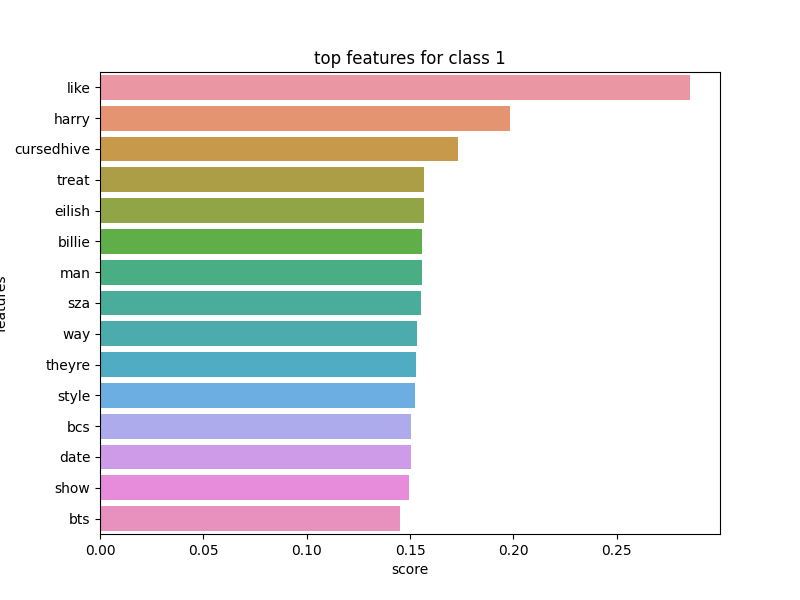
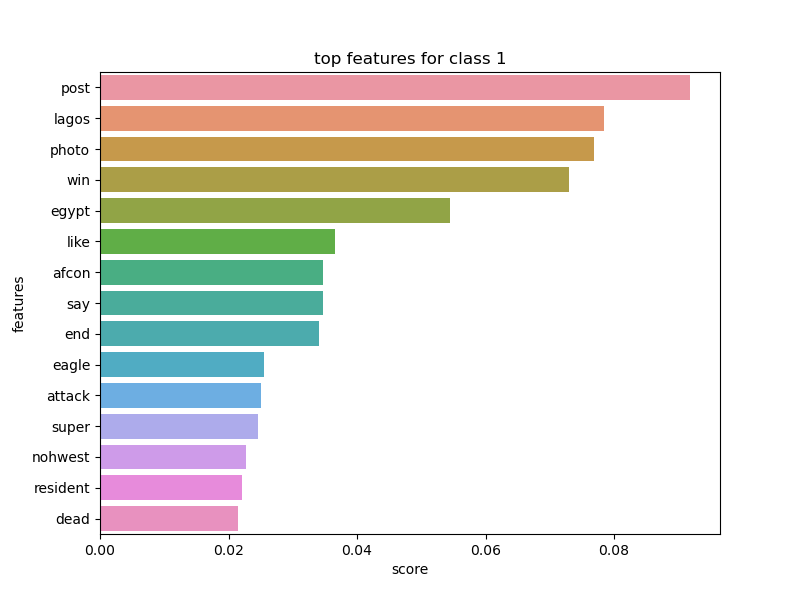
added SVM + changed topic + update ReadMe

diff --git a/src/tweets_classification.py b/src/tweets_classification.py
@@ -5,6 +5,7 @@ import json
 import re
 import string
 import pyodbc
+from sklearn.utils import shuffle
 import tweepy
 import nltk
 from nltk.corpus import stopwords
@@ -18,9 +19,12 @@ from sklearn.feature_extraction.text import TfidfVectorizer
 from sklearn.cluster import KMeans
 from sklearn.decomposition import PCA
 from sklearn.preprocessing import normalize
+from sklearn.model_selection import train_test_split
+from sklearn import datasets, svm
+from sklearn.metrics import accuracy_score, precision_score, recall_score
 from wordcloud import WordCloud
 
-brands = ["grammys"]
+brands = ["nigeria"]
 stop_words = stopwords.words("english") + brands
 lemmatizer = WordNetLemmatizer()
 vectorizer = TfidfVectorizer()
@@ -29,8 +33,8 @@ vectorizer = TfidfVectorizer()
 def set_up(conf):
     """setting up the application : connection to the Twitter API and the local dataBase"""
     with open(conf) as set_up_file:
-        tokens = json.load(set_up_file)
 
+        tokens = json.load(set_up_file)
         consumer_key = tokens["Key"]
         consumer_secret = tokens["Secret"]
 
@@ -66,7 +70,7 @@ def plot_word_cloud(text, fichier):
     wc.generate(text)
     plt.imshow(wc, interpolation="bilinear")
     plt.axis("off")
-    plt.show()
+    # plt.show()
     plt.savefig(fichier)
 
 
@@ -114,16 +118,20 @@ def fetch_tweets(conf):
     cursor = db_connexion.cursor()
     for brand in brands:
         for tweet in tweepy.Cursor(
-            api.search_tweets, lang="en", q=brand, result_type="mixed"
+            api.search_tweets, lang="en", q=brand, result_type="recent"
         ).items(6000):
+            print(tweet.text)
+            label = input("Label : ")
             cursor.execute(
-                "INSERT INTO dbo.tweets values(?,?,?,?,?,?,?)",
+                "INSERT INTO dbo.tweets values(?,?,?,?,?,?,?,?,?)",
                 tweet.id_str,
                 tweet.created_at,
                 tweet.text,
                 int(tweet.retweet_count),
                 int(tweet.favorite_count),
                 brand,
+                int(label),
+                -1,
                 -1,
             )
             db_connexion.commit()
@@ -170,6 +178,32 @@ def train_word2vec(tweets_df):
     return features
 
 
+def classify_tweets_svm(tweets_df):
+    Train_X, Test_X, Train_Y, Test_Y = train_test_split(
+        tweets_df["content"], tweets_df["target_label"], test_size=0.3
+    )
+    SVM = svm.SVC(C=1.0, kernel="linear", degree=3, gamma="auto")
+
+    Tfidf_vect = TfidfVectorizer(max_features=5000)
+    Tfidf_vect.fit(tweets_df["content"])
+    Train_X_Tfidf = Tfidf_vect.transform(Train_X)
+    Test_X_Tfidf = Tfidf_vect.transform(Test_X)
+
+    SVM.fit(Train_X_Tfidf, Train_Y)  # predict the labels on validation dataset
+    predictions_SVM = SVM.predict(Test_X_Tfidf)  # Use accuracy_score function to get the accuracy
+
+    accuracy = accuracy_score(Test_Y, predictions_SVM)
+    precision = precision_score(Test_Y, predictions_SVM, average=None)
+    recall = recall_score(Test_Y, predictions_SVM, average=None)
+    sns.countplot(Test_Y)
+    plt.savefig("../plots/SVMdistributionTrue.png")
+    sns.countplot(predictions_SVM)
+    plt.savefig("../plots/SVMdistributionPred.png")
+    print("accuracy for SVM classifier : {}".format(accuracy))
+    print("precision for SVM classifier : {}".format(precision))
+    print("recall for SVM classifier : {}".format(recall))
+
+
 def classify_tweets_kmeans(features, tweets_df):
     """This method convert the twwets text into vectors and
     then classify them using K Means classifier"""
@@ -185,6 +219,10 @@ def classify_tweets_kmeans(features, tweets_df):
     fitted = kmeans_classifier.fit(features)
     prediction = kmeans_classifier.predict(features)
 
+    return (y_learn, fitted, prediction, tf_idf_array, tfidf_vect)
+
+
+def plot_kmean_results(tweets_df, y_learn, fitted, prediction, tf_idf_array, tfidf_vect):
     res = []
     for id, result in itertools.zip_longest(tweets_df["tweet_id"], fitted.labels_):
         res.append({"id": id, "label": result})
@@ -209,22 +247,20 @@ def classify_tweets_kmeans(features, tweets_df):
 def get_top_features_cluster(tf_idf_array, prediction, label, tfidf_vect, n_feats):
     """get top features per cluster"""
     id_temp = np.where(prediction == label)  # indices for each cluster
-    x_means = np.mean(
-        tf_idf_array[id_temp], axis=0
-    )  # returns average score across cluster
+    x_means = np.mean(tf_idf_array[id_temp], axis=0)  # returns average score across cluster
     sorted_means = np.argsort(x_means)[::-1][:n_feats]  # indices with top 20 scores
     features = tfidf_vect.get_feature_names_out()
     best_features = [(features[i], x_means[i]) for i in sorted_means]
     return pd.DataFrame(best_features, columns=["features", "score"])
 
 
-def store_results(result, conf):
+def store_results(result, conf, model):
     """store kmeans results in dataBase table"""
     (_, connexion) = set_up(conf)
     cursor = connexion.cursor()
     for _, row in result.iterrows():
         cursor.execute(
-            "UPDATE dbo.tweets SET kmeans_res = ? WHERE tweet_id = ?",
+            "UPDATE dbo.tweets SET " + model + " = ? WHERE tweet_id = ?",
             row["label"],
             row["id"],
         )
@@ -264,10 +300,17 @@ def main():
     # fetch_tweets("../twitter_token.json.txt")
     tweets_df = retrieve_tweets()
     data_frame = clean_df(tweets_df)
-    plot_word_cloud(str(data_frame["content"].values), "../plots/cloud.png")
+    # plot_word_cloud(str(data_frame["content"].values), "../plots/cloud.png")
     features = train_word2vec(data_frame)
-    results = classify_tweets_kmeans(features, data_frame)
-    store_results(results, "../twitter_token.json.txt")
+    (y_learn, fitted, prediction, tf_idf_array, tfidf_vect) = classify_tweets_kmeans(
+        features, data_frame
+    )
+    results_kmean = plot_kmean_results(
+        data_frame, y_learn, fitted, prediction, tf_idf_array, tfidf_vect
+    )
+    store_results(results_kmean, "../twitter_token.json.txt", "kmeans_res")
+    classify_tweets_svm(data_frame)
+
     temporal_evolution("../twitter_token.json.txt")
 
 

diff --git a/README.md b/README.md
@@ -2,38 +2,60 @@
 
 
 ## DISCLAIMER
-Work in progress !!!!!!!!!!!!!!!!!!!!!!!!!!!!!!!!!!!!!!!!!!!!!!!!!!!!!!!!!!!!!
+This project is in progress, the results presented are constantly being updated.
 
 # Opinion_Detection
 
-The objective of this project is to build a classification tool to classify tweets about specified brands using Machine Learning algorithms. 
-This first version tries to classify tweets of the following brands : iPhone,iPad,MacBook and AirPods. 
-The tweets are labelised in to 3 categories : positive, negative and neutral. 
+The objective of this project is to build a classification tool to classify tweets about specified brands or topics using Machine Learning algorithms. 
+This version tries to classify tweets of the following topic : Nigeria. 
+The tweets are labelised in to 3 categories : positive (2), negative(1) and neutral (0). 
 
 ## Getting and storing the data
 Data are fetched using the twitter API, with specific secret tokens that are for personal use. 
 The storage is then done in a SQL Server local dataBase. 
-The dataBase contains 6000 tweets.
+The dataBase contains 370 tweets for now.
 
 ## Preview of the dataset
 The main words in the dataset are : 
 ![Alt text](plots/cloud.png)
 
 ## Classification of tweets
-Labellizing tweets manually would be a time consuming task.
-Text is transformed with word2vec model.
-Clustering is made with unsupervised learning, using kmeans algorithm. 
+
+### SVM Classifier 
+
+To train a SVM classifier, data are labellised by hand before being stored in the database. 
+They are then transformed using TF-IDF method. 
+The results of the classifier are not very satisfying : 
+
+accuracy for SVM classifier : 0.6666666666666666
+precision for SVM classifier : [0.5        0.76744186 0.88888889]
+recall for SVM classifier : [0.75757576 0.75       0.47058824]
+
+Here an overview of the labels predicted by the svm
+![Alt text](plots/SVMdistributionPred.png)
+
+And the actual labels :
+![Alt text](plots/SVMdistributionTrue.png)
+
+-> The model needs more data so : To be continued !
+
+### Kmeans classifier
+
+Labellising by hand is a very laborious task, so we may want to use an unsupervised ML algorithm like Kmeans to cluster tweets. 
+
+For this method, the text is transformed with word2vec model.
+ 
 Here, the clustering of the dataset made by kmeans : 
 ![Alt text](plots/labelDistribution.png)
 ![Alt text](plots/distributionCount.png)
-
-The overtime repartition is :
-![Alt text](plots/overtimeRepartition0.png)
-![Alt text](plots/overtimeRepartition1.png)
-![Alt text](plots/overtimeRepartition2.png)
 
 For each class, we can see the most frequent features : 
 ![Alt text](plots/frequentWords0.png)
 ![Alt text](plots/frequentWords1.png)
 ![Alt text](plots/frequentWords2.png)
+
+As we can see, the algorithm isn't performing very well. 
+It clearly needs more data and tuning. //TODO 
+
+
 
